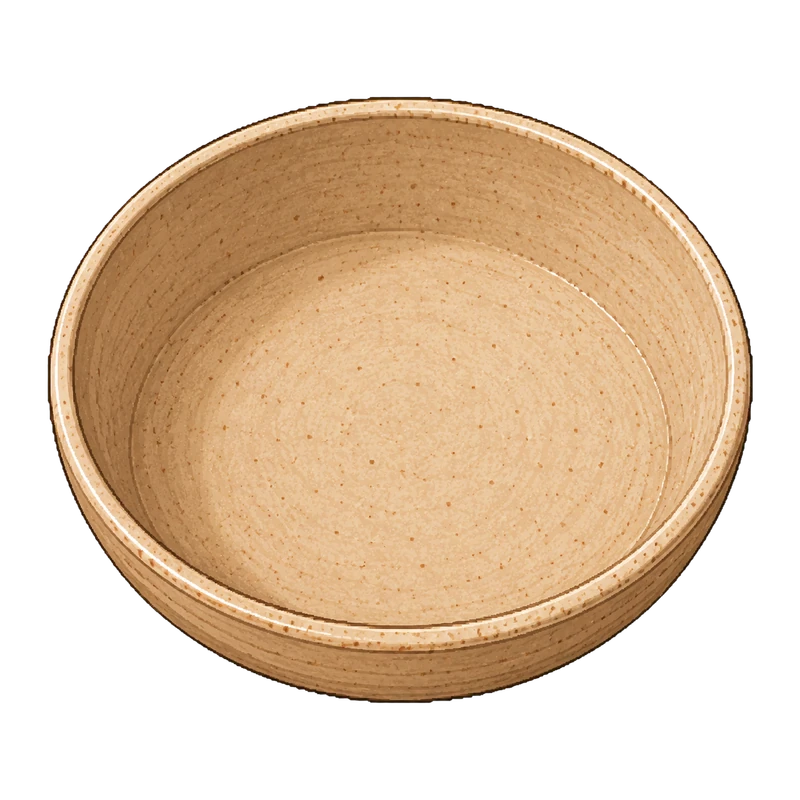
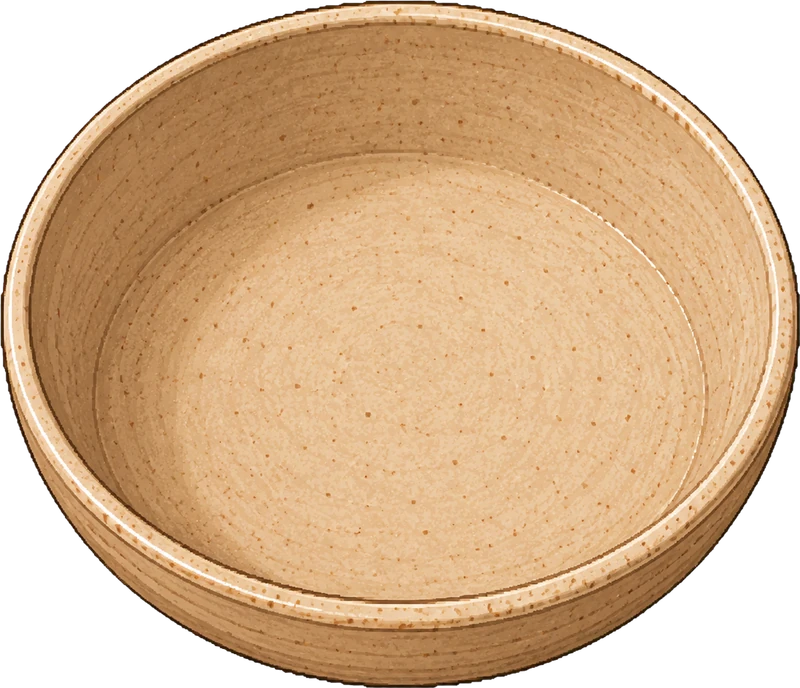
E8 김치전 재료 넣기

diff --git a/tools/build-minigame-art-webp.js b/tools/build-minigame-art-webp.js
@@ -54,14 +54,22 @@ const FILES = [
   { file:"E8/02_food_pancake_flour_panel.png",   size:[240,240], css:".bt-ing-asset 120x120" },
   { file:"E8/03_food_water_cup_panel.png",       size:[240,240], css:".bt-ing-asset 120x120" },
   /* 반죽 볼 9장. 넣은 재료 조합마다 한 장이고 전부 같은 자리에 겹칩니다.
-     자리는 .batter-prep-scene 의 --bowl (400) 이라 2배율이 800 입니다.
+     자리는 .batter-prep-scene 의 --bowl (400x400) 인데, 볼 둘레의 투명 여백을
+     잘라낸 납품본이라 그림 비율이 1.163(가로가 김)입니다. 정사각 칸에
+     object-fit:contain 으로 들어가면 **가로가 먼저 막혀** 400x344 로 그려집니다.
+     그래서 2배율이 800x688 입니다.
+
+     ⚠ 9장을 **한 크기로 묶는 것이 중요합니다.** 마스터 PNG 는 장마다 자기
+        경계에 맞춰 잘려 있어 2202~2214 x 1894~1902 로 조금씩 다릅니다(비율 차 0.23%).
+        여기서 한 크기로 뽑아야 재료를 넣을 때 볼이 안 튑니다. 비율 차가
+        checkAspect 한계(2%)의 1/10 이라 찌그러짐은 눈에 안 보입니다.
      오른쪽 '참고 모양' 칸(172)에도 같은 파일을 줄여 씁니다. */
   ...["04_food_kimchi_batter_bowl_empty","05_food_kimchi_batter_bowl_water",
       "06_food_kimchi_batter_bowl_flour","07_food_kimchi_batter_bowl_kimchi",
       "08_food_kimchi_batter_bowl_kimchi_flour","09_food_kimchi_batter_bowl_water_flour",
       "10_food_kimchi_batter_bowl_water_kimchi","11_food_kimchi_batter_bowl_flour_kimchi",
       "12_food_kimchi_batter_bowl_all_unmixed"]
-    .map(name=>({ file:`E8/${name}.png`, size:[800,800], css:".bt-bowl 400x400 (--bowl)" })),
+    .map(name=>({ file:`E8/${name}.png`, size:[800,688], css:".bt-bowl 400x400 안에서 400x344" })),
   /* E10 멸치. 머리/몸통 4종은 도마 위에서 한 마리 길이 270(--a-len) 으로 그려지고,
      --size 로 최대 1.06배까지 커집니다. 그래서 "전체 길이 580 = 270 x 2배율에
      여유를 더한 값" 을 기준으로 각 조각의 몫만큼 나눠 가집니다.
